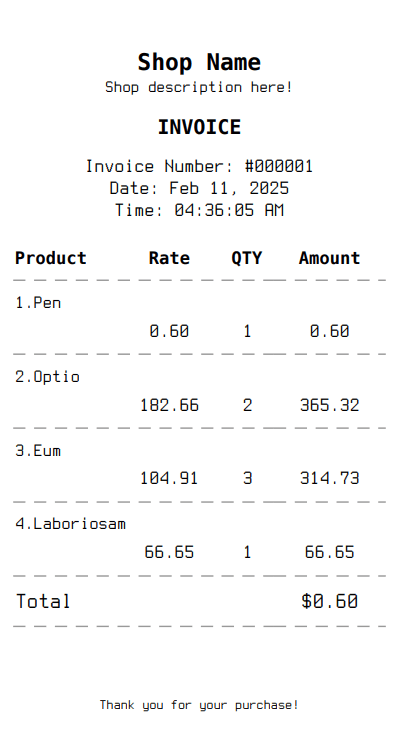
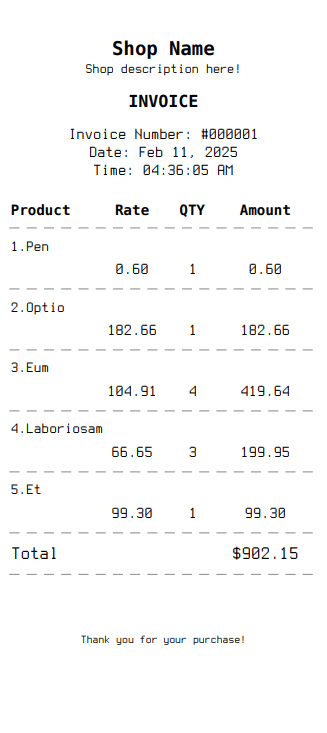
Update total price

diff --git a/resources/views/invoices/3-invoice.blade.php b/resources/views/invoices/3-invoice.blade.php
@@ -95,10 +95,13 @@
     <table>
         <thead>
             <tr>
-                <th class="border-b-d">Product</th>
-                <th class="border-b-d tex-center">Rate</th>
-                <th class="border-b-d tex-center p-x-1">QTY</th>
-                <th class="border-b-d tex-center">Amount</th>
+                <th>Product</th>
+                <th class="tex-center">Rate</th>
+                <th class="tex-center p-x-1">QTY</th>
+                <th class="tex-center">Amount</th>
+            </tr>
+            <tr>
+                <th class="border-b-d" colspan="4" style="height: 0; padding:0;"></td>
             </tr>
         </thead>
         <tbody>
@@ -109,20 +112,27 @@
                     <td  class="pb-1" style="font-size:13px" colspan="4">{{ $i.'.'.$item->product->name}}</td>
                 </tr>
                 <tr>
-                    <td class="pt-0 border-b-d">&nbsp;&nbsp;</td>
-                    <td class="tex-center pt-0 border-b-d">{{ number_format($item['price'], 2, '.', '')  }}</td>
-                    <td class="tex-center pt-0 border-b-d">{{ $item['quantity'] }}</td>
-                    <td class="tex-center pt-0 border-b-d">{{ number_format( ($item['price'] *  $item['quantity']), 2, '.', '')  }}</td>
+                    <td class="pt-0">&nbsp;&nbsp;</td>
+                    <td class="tex-center pt-0">{{ number_format($item['price'], 2, '.', '')  }}</td>
+                    <td class="tex-center pt-0">{{ $item['quantity'] }}</td>
+                    <td class="tex-center pt-0">{{ number_format( ($item['price'] *  $item['quantity']), 2, '.', '')  }}</td>
+                </tr>
+                <tr>
+                    <td class="border-b-d" colspan="4" style="height: 0; padding:0;"></td>
                 </tr>
             @endforeach
             <tr>
-                <td colspan="3" class="border-b-d" style="font-size:16px">
+                <td colspan="3" style="font-size:16px">
                     Total 
                 </td>
-                <td class="border-b-d" style="text-align: center; font-size:16px">
+                <td style="text-align: center; font-size:16px">
                     {{$currency_symbol}}{{$order->total_price}}
                 </td>
             </tr>
+            <tr>
+                <td class="border-b-d" colspan="4" style="height: 0; padding:0;"></td>
+            </tr>
+            
         </tbody>
     </table>
 

diff --git a/app/Http/Controllers/UtilityController.php b/app/Http/Controllers/UtilityController.php
@@ -35,8 +35,6 @@ class UtilityController extends Controller
             'site_description' => $site_description
         ];
 
-        dd($data);
-
         $html = view('invoices.3-invoice', $data)->render();
 
         $defaultConfig = (new \Mpdf\Config\ConfigVariables())->getDefaults();
